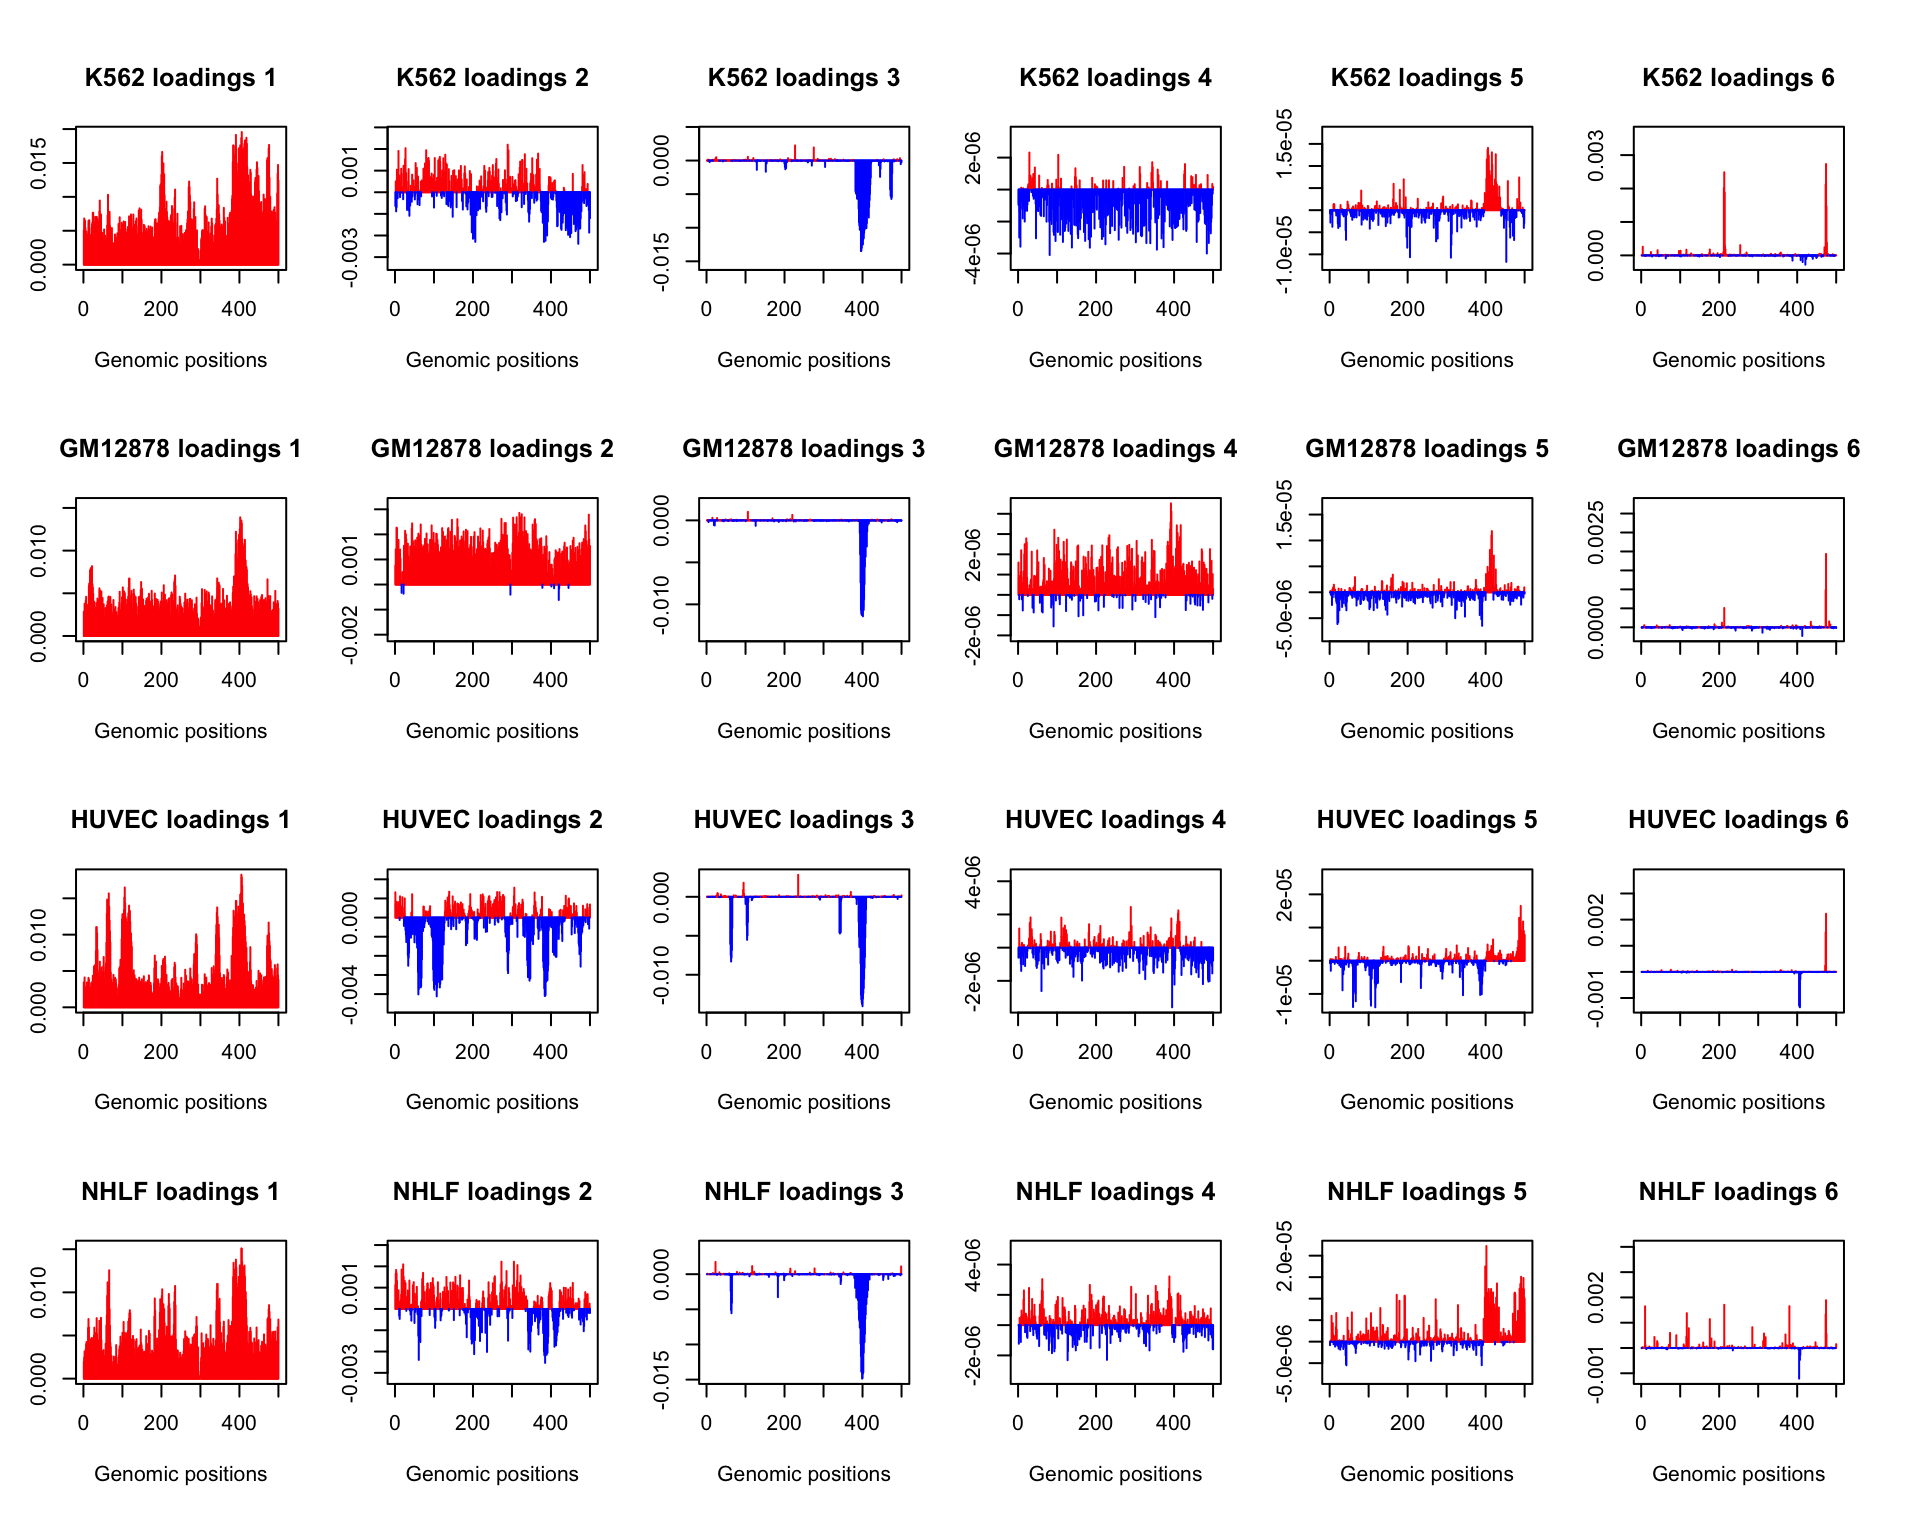
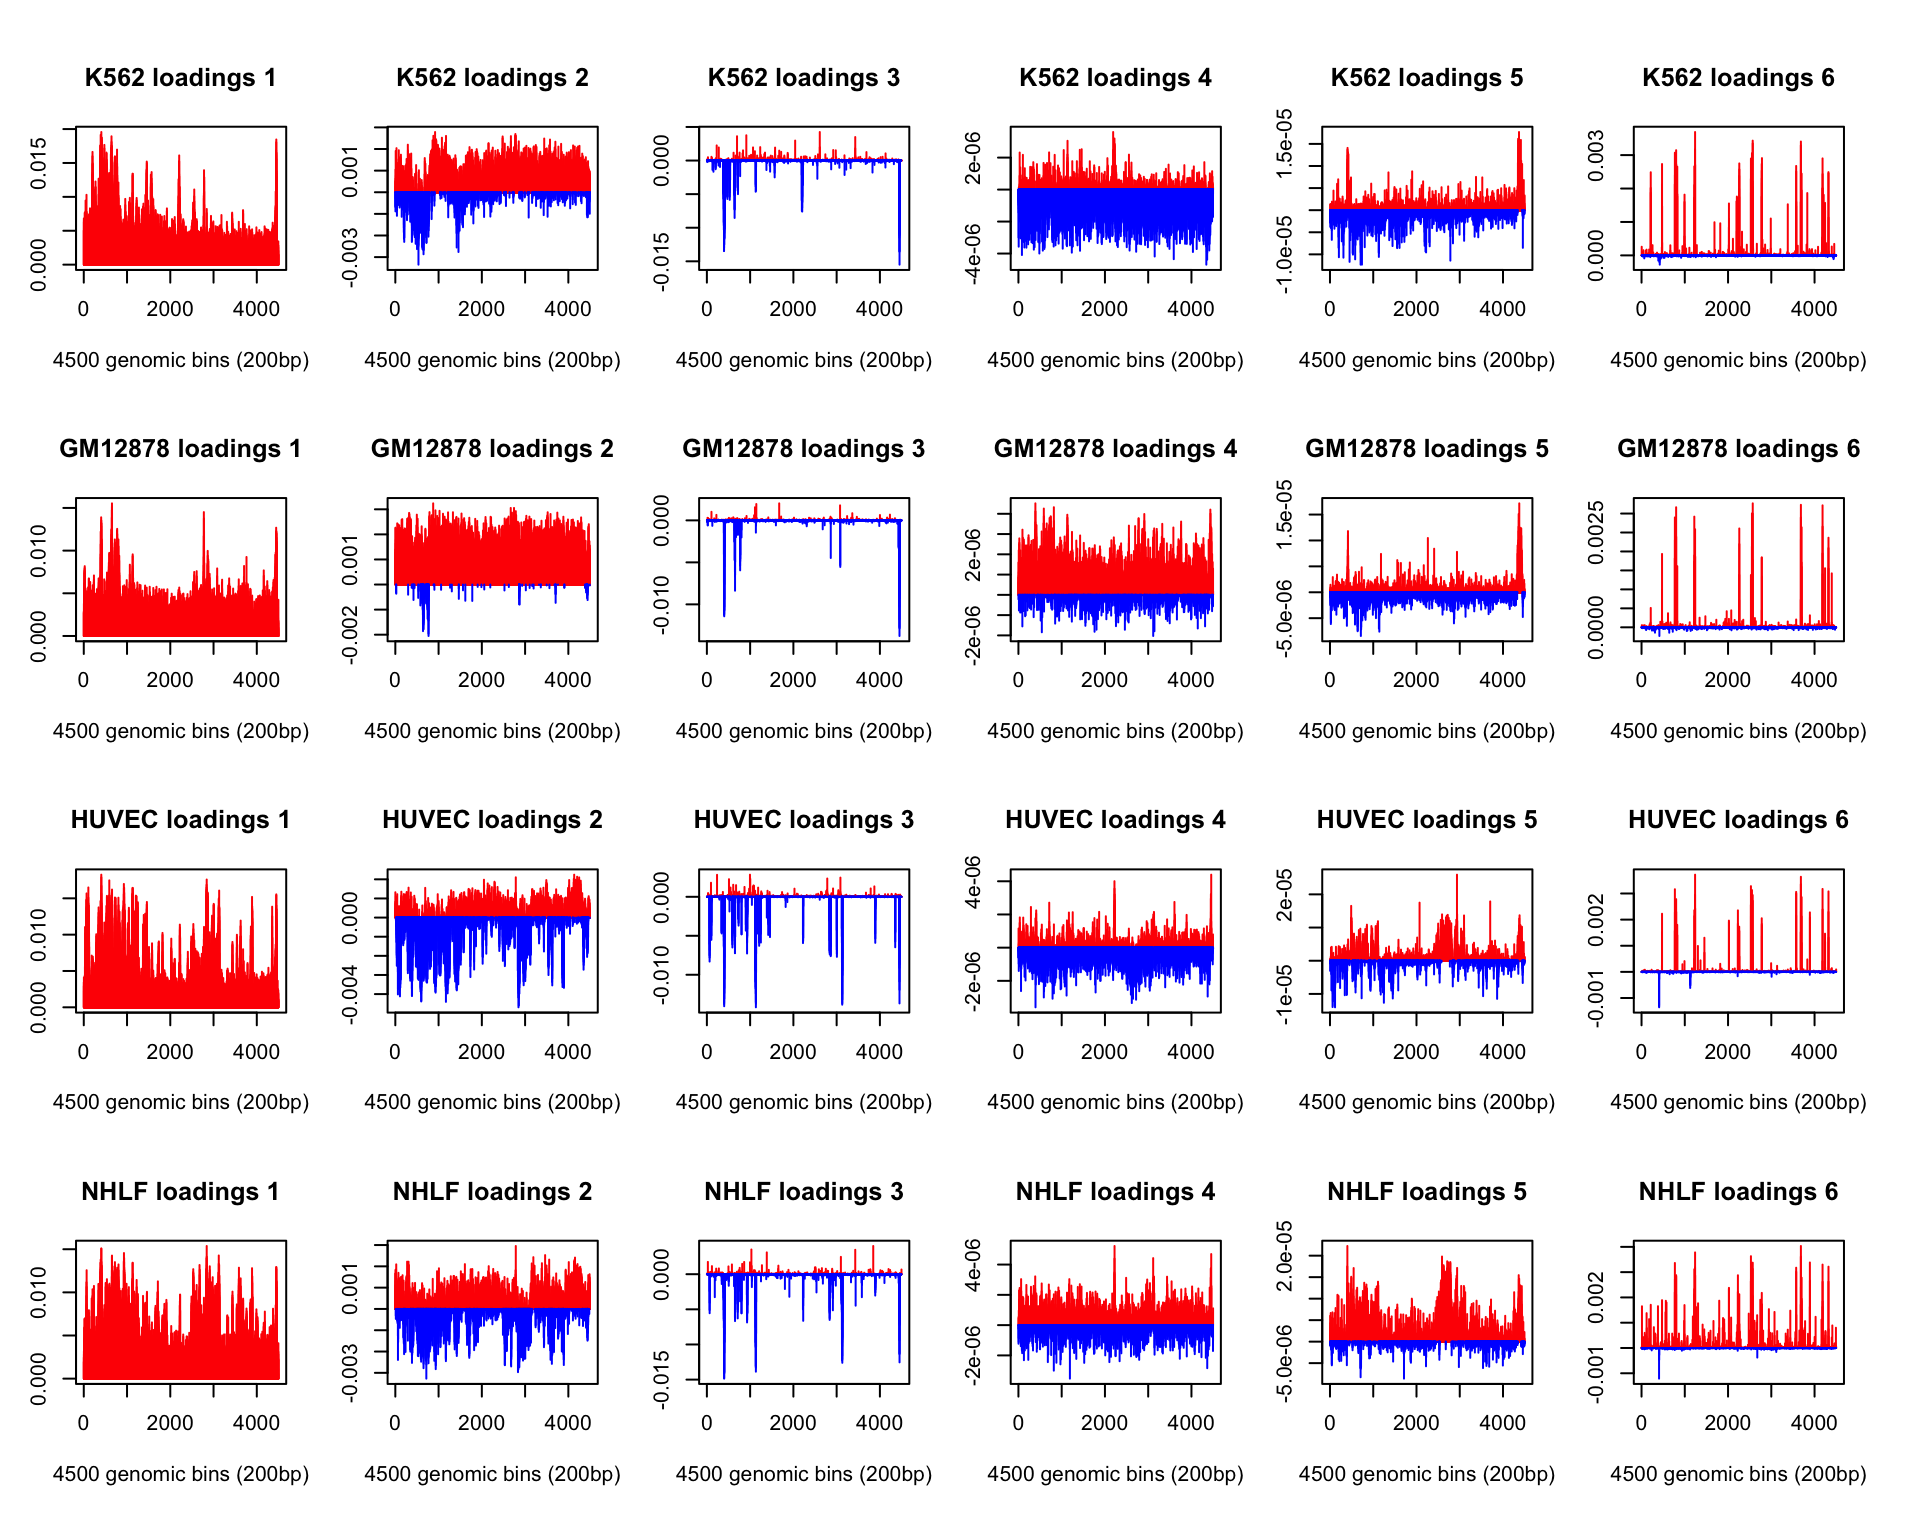
Build site.

diff --git a/docs/chrom_flash_joint_cells.html b/docs/chrom_flash_joint_cells.html
@@ -310,7 +310,7 @@ div.tocify {
 
 
 <p><strong>Last updated:</strong> 2017-03-05</p>
-<p><strong>Code version:</strong> 219e8bd</p>
+<p><strong>Code version:</strong> 3141c26</p>
 <div id="run-flash-on-chr1-test-data" class="section level2">
 <h2>run FLASH on chr1 test data</h2>
 </div>
@@ -322,6 +322,7 @@ div.tocify {
 </div>
 <div id="loadings-for-each-cell-types" class="section level3">
 <h3>Loadings for each cell types</h3>
+<pre><code>[1]    1 4500</code></pre>
 <p><img src="figure/chrom_flash_joint_cells.Rmd/flash_loadings-1.png" width="960" style="display: block; margin: auto;" /></p>
 </div>
 </div>
